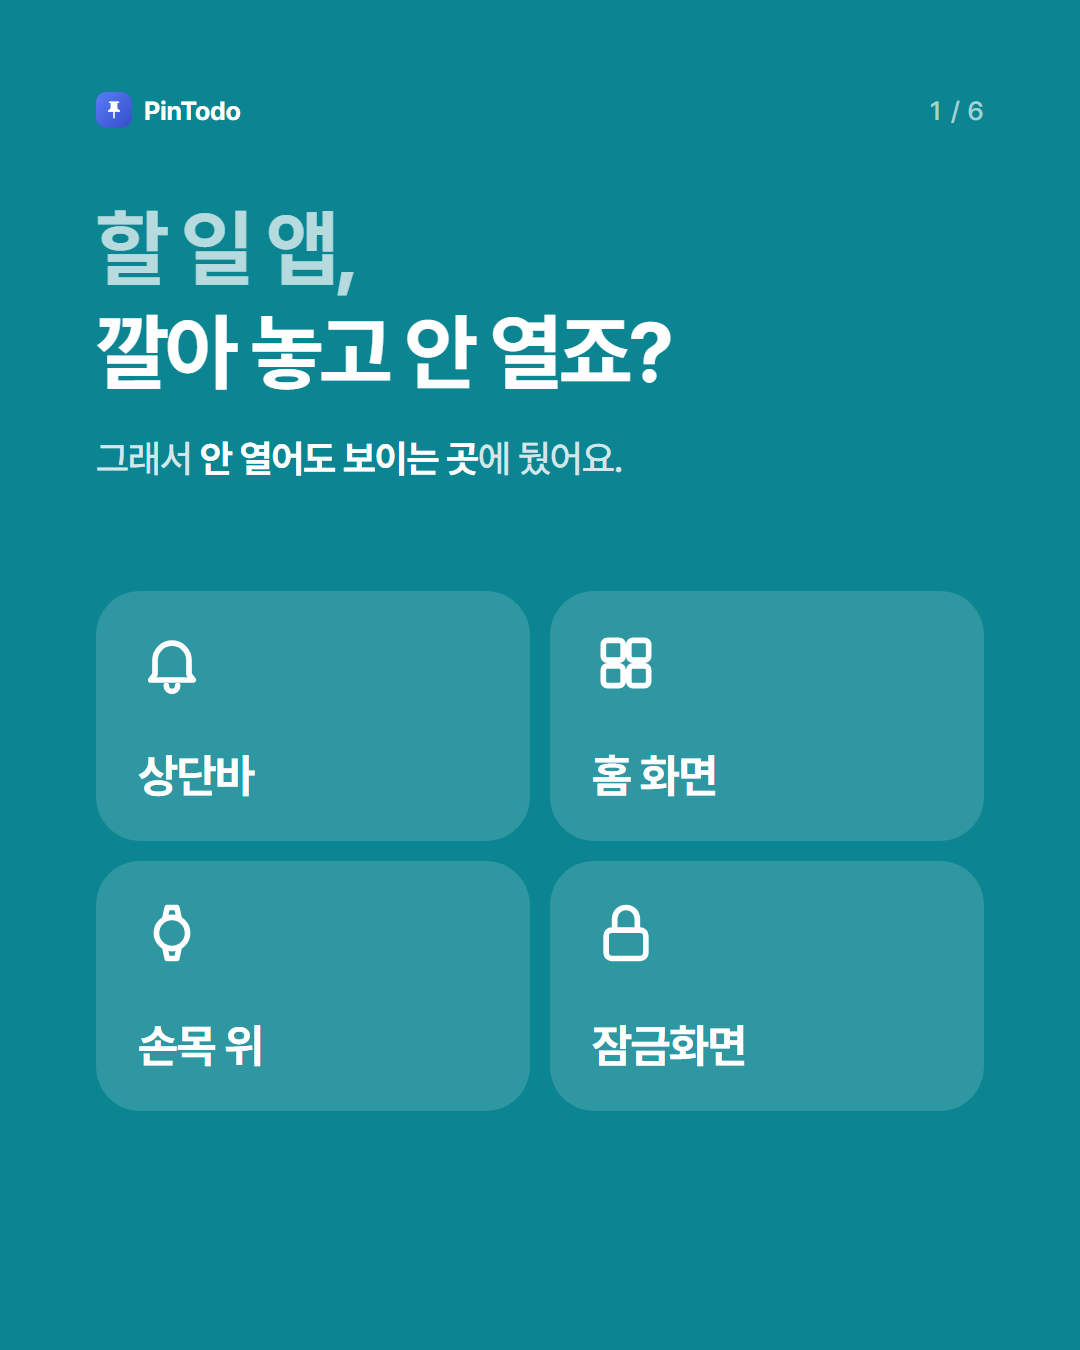
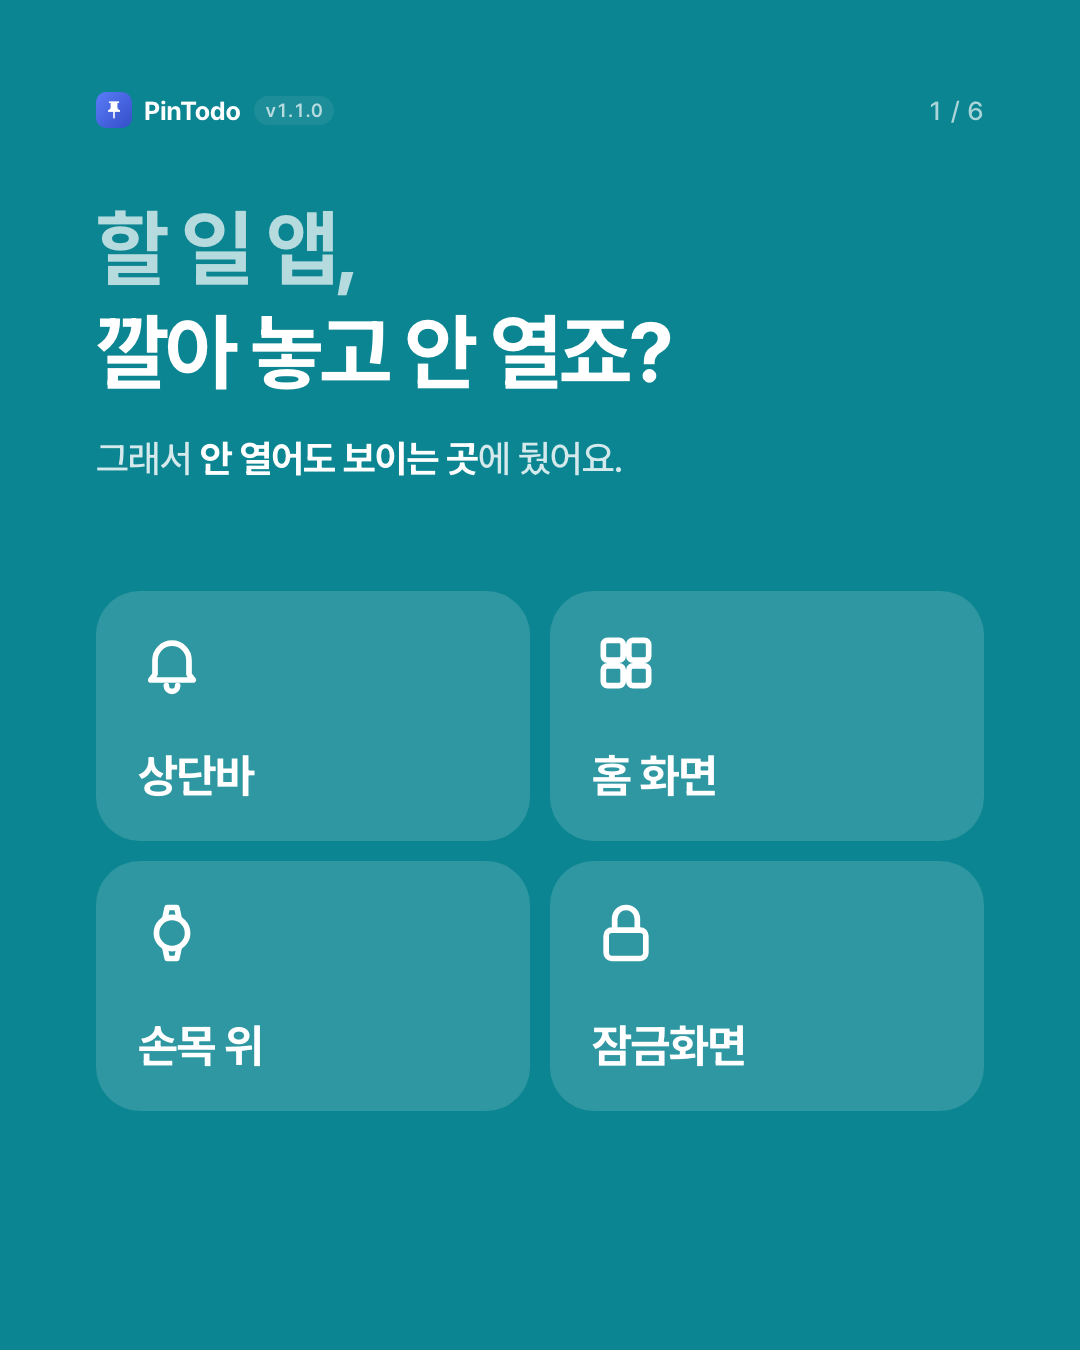
v1.1.0 - docs: 인스타그램 게시물 첫 장 로고 옆에 버전 표시
- post.html: 첫 장 'PinTodo' 옆에 작은 버전 배지(VERSION 상수, 현재 v1.1.0)
- 12개 게시물의 1장 다시 그림
- insta-src/README.md에 버전 올릴 때 1장만 다시 그리는 방법 추가

diff --git a/store/insta-src/post.html b/store/insta-src/post.html
@@ -15,6 +15,7 @@ body { font-family: P, sans-serif; word-break: keep-all; -webkit-font-smoothing:
 .post.blue { background: var(--deep); color: #fff; }
 .meta { position: absolute; left: var(--m); right: var(--m); top: 92px; display: flex; align-items: center; gap: 12px; font-size: 26px; font-weight: 700; letter-spacing: -.3px; }
 .meta img { width: 36px; height: 36px; border-radius: 10px; }
+.meta .ver { font-style: normal; margin-left: 2px; padding: 3px 11px; border-radius: 99px; font-size: 19px; font-weight: 600; letter-spacing: 0; font-variant-numeric: tabular-nums; background: color-mix(in srgb, currentColor 10%, transparent); opacity: .7; }
 .meta span { margin-left: auto; font-weight: 500; color: var(--mute); font-variant-numeric: tabular-nums; letter-spacing: .5px; }
 .blue .meta span { color: rgba(255,255,255,.65); }
 h1 { padding-top: 196px; font-size: 84px; font-weight: 700; line-height: 1.24; letter-spacing: -3.4px; white-space: pre-line; }
@@ -196,6 +197,7 @@ h1 em { font-style: normal; color: var(--blue); }
 <script>
 // 게시물(여러 장)은 posts에 추가하고 post.html?id=이름&n=장 으로 연다. render.sh가 store/insta/이름/1.png… 로 저장
 const ICON = "../icon-512.png";
+const VERSION = "1.1.0"; // 첫 장 로고 옆에 표시. 버전을 올리면 version.txt와 같게 고치고 각 게시물 1장을 다시 그림
 const ic = (d, c, w, sw = 2) => `<svg width="${w}" height="${w}" viewBox="0 0 24 24" fill="none" stroke="${c}" stroke-width="${sw}" stroke-linecap="round" stroke-linejoin="round">${d}</svg>`;
 const BELL = '<path d="M6 16V11a6 6 0 0 1 12 0v5l1.5 2h-15z"/><path d="M10 20a2 2 0 0 0 4 0"/>', CHECK = '<path d="M5 12.5l4.5 4.5L19 7.5"/>', FIND = '<circle cx="11" cy="11" r="6.5"/><path d="M16 16l4.5 4.5"/>';
 const STATUS = `<svg width="92" height="28" viewBox="0 0 92 28" fill="#191f28"><path d="M2 20h4v6H2zM9 15h4v11H9zM16 10h4v16h-4zM23 5h4v21h-4z"/><rect x="42" y="6" width="42" height="18" rx="5" fill="none" stroke="#191f28" stroke-width="2"/><rect x="45" y="9" width="28" height="12" rx="2.5"/><rect x="86" y="11" width="3" height="8" rx="1.5"/></svg>`;
@@ -208,7 +210,7 @@ function noti(n) {
 const CAL = '<rect x="4" y="6" width="16" height="14" rx="2"/><path d="M4 10.5h16M8.5 3.5v4M15.5 3.5v4"/>';
 // 실제 화면: up = 위에서 잘라낼 높이. h를 주면 그 높이까지만 보여 주고 아래는 흰 바탕(시트처럼 화면 아래 모서리가 보이면 안 될 때)
 const shot = (name, up, h) => `<div class="shot" style="${h ? "background:#fff" : ""}"><div style="${h ? `height:${h}px;overflow:hidden` : ""}"><img src="shots/${name}.png" style="margin-top:${-up}px"></div></div><div class="fade"></div>`;
-const page = (body, cls = "") => (i, total) => `<div class="post ${cls}"><div class="meta"><img src="${ICON}">PinTodo<span>${i} / ${total}</span></div>${body}</div>`;
+const page = (body, cls = "") => (i, total) => `<div class="post ${cls}"><div class="meta"><img src="${ICON}">PinTodo${i === 1 ? `<em class="ver">v${VERSION}</em>` : ""}<span>${i} / ${total}</span></div>${body}</div>`;
 const SHOP = [["우유", 1], ["계란", 1], ["두부", 0], ["대파", 0], ["키친타월", 0]];
 // 마지막 장(받기)은 모든 게시물이 같음
 const END = page(`<div class="end"><img src="${ICON}">

diff --git a/store/insta-src/README.md b/store/insta-src/README.md
@@ -2,6 +2,7 @@
 
 `store/insta/이름/1.png…`(1080×1350, 피드 4:5)와 `caption.txt`(게시물 설명)를 만드는 소스.
 
+- 첫 장 왼쪽 위 로고 옆에 앱 버전(`post.html`의 `VERSION`)을 작게 표시. 버전을 올리면 `VERSION`을 `version.txt`와 같게 고치고 각 게시물의 1장만 다시 그림(`render.sh 이름 1`)
 - 문구·배치: `post.html`의 `posts`(게시물 이름 → 장 배열). 틀은 모든 장이 같음 — 위에 작은 PinTodo·쪽 번호, 제목(핵심 낱말만 파랑), 설명 한 줄, 그림 하나. 글자 크기는 26 / 38 / 84 세 단계만
 - 알림창 그림은 직접 그린 것(`noti`), 실제 앱 화면은 `shots/*.png` — 스토어 스크린샷(`store/screenshots/`)에서 폰 화면(700×1504)만 잘라 낸 것. 화면이 바뀌면 `shots-src`로 스토어 스크린샷을 다시 만든 뒤 `(190, 514, 890, 2018)`로 잘라 넣음
 - `shots/checklist.png`(장보기 편집 화면)·`list.png`(할 일 목록)는 에뮬레이터에서 직접 찍은 것: `Pixel_9`에 디버그 빌드 설치 → `shots-src/seed.py`로 예시 할 일을 넣고 → 목록에서 장보기를 눌러 `adb exec-out screencap` → 위 130px(상태 표시줄)을 자르고 너비 700으로 줄임. 키보드가 뜨면 `adb shell settings put secure show_ime_with_hard_keyboard 0`. 화면이 검게 찍히면 `adb shell input keyevent 224`(화면 켜기), 날짜가 어긋나면 `adb shell cmd alarm set-timezone Asia/Seoul`
